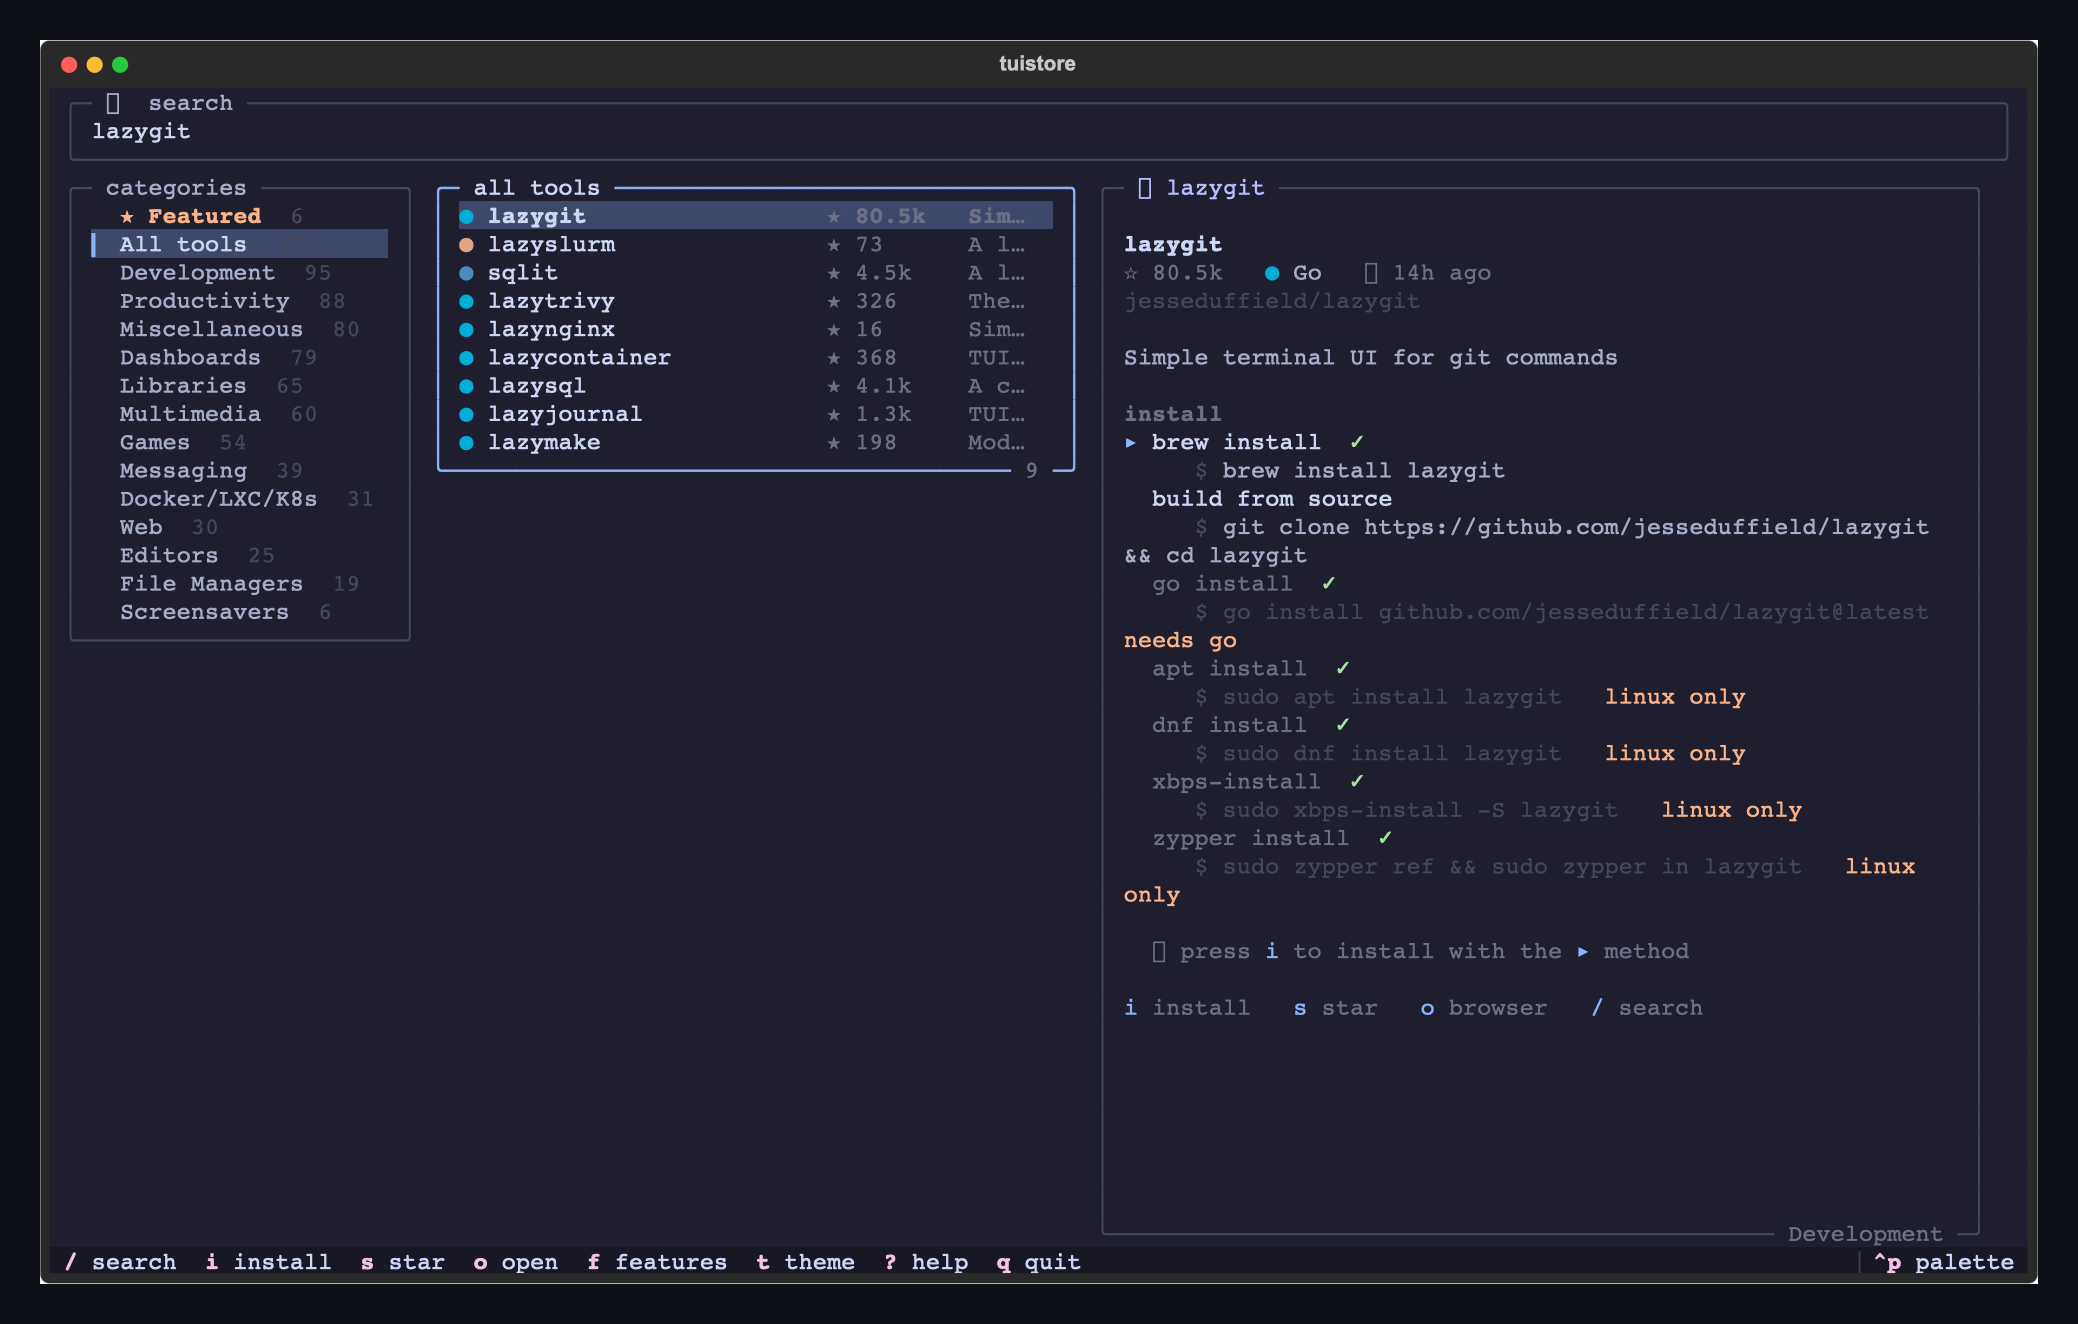
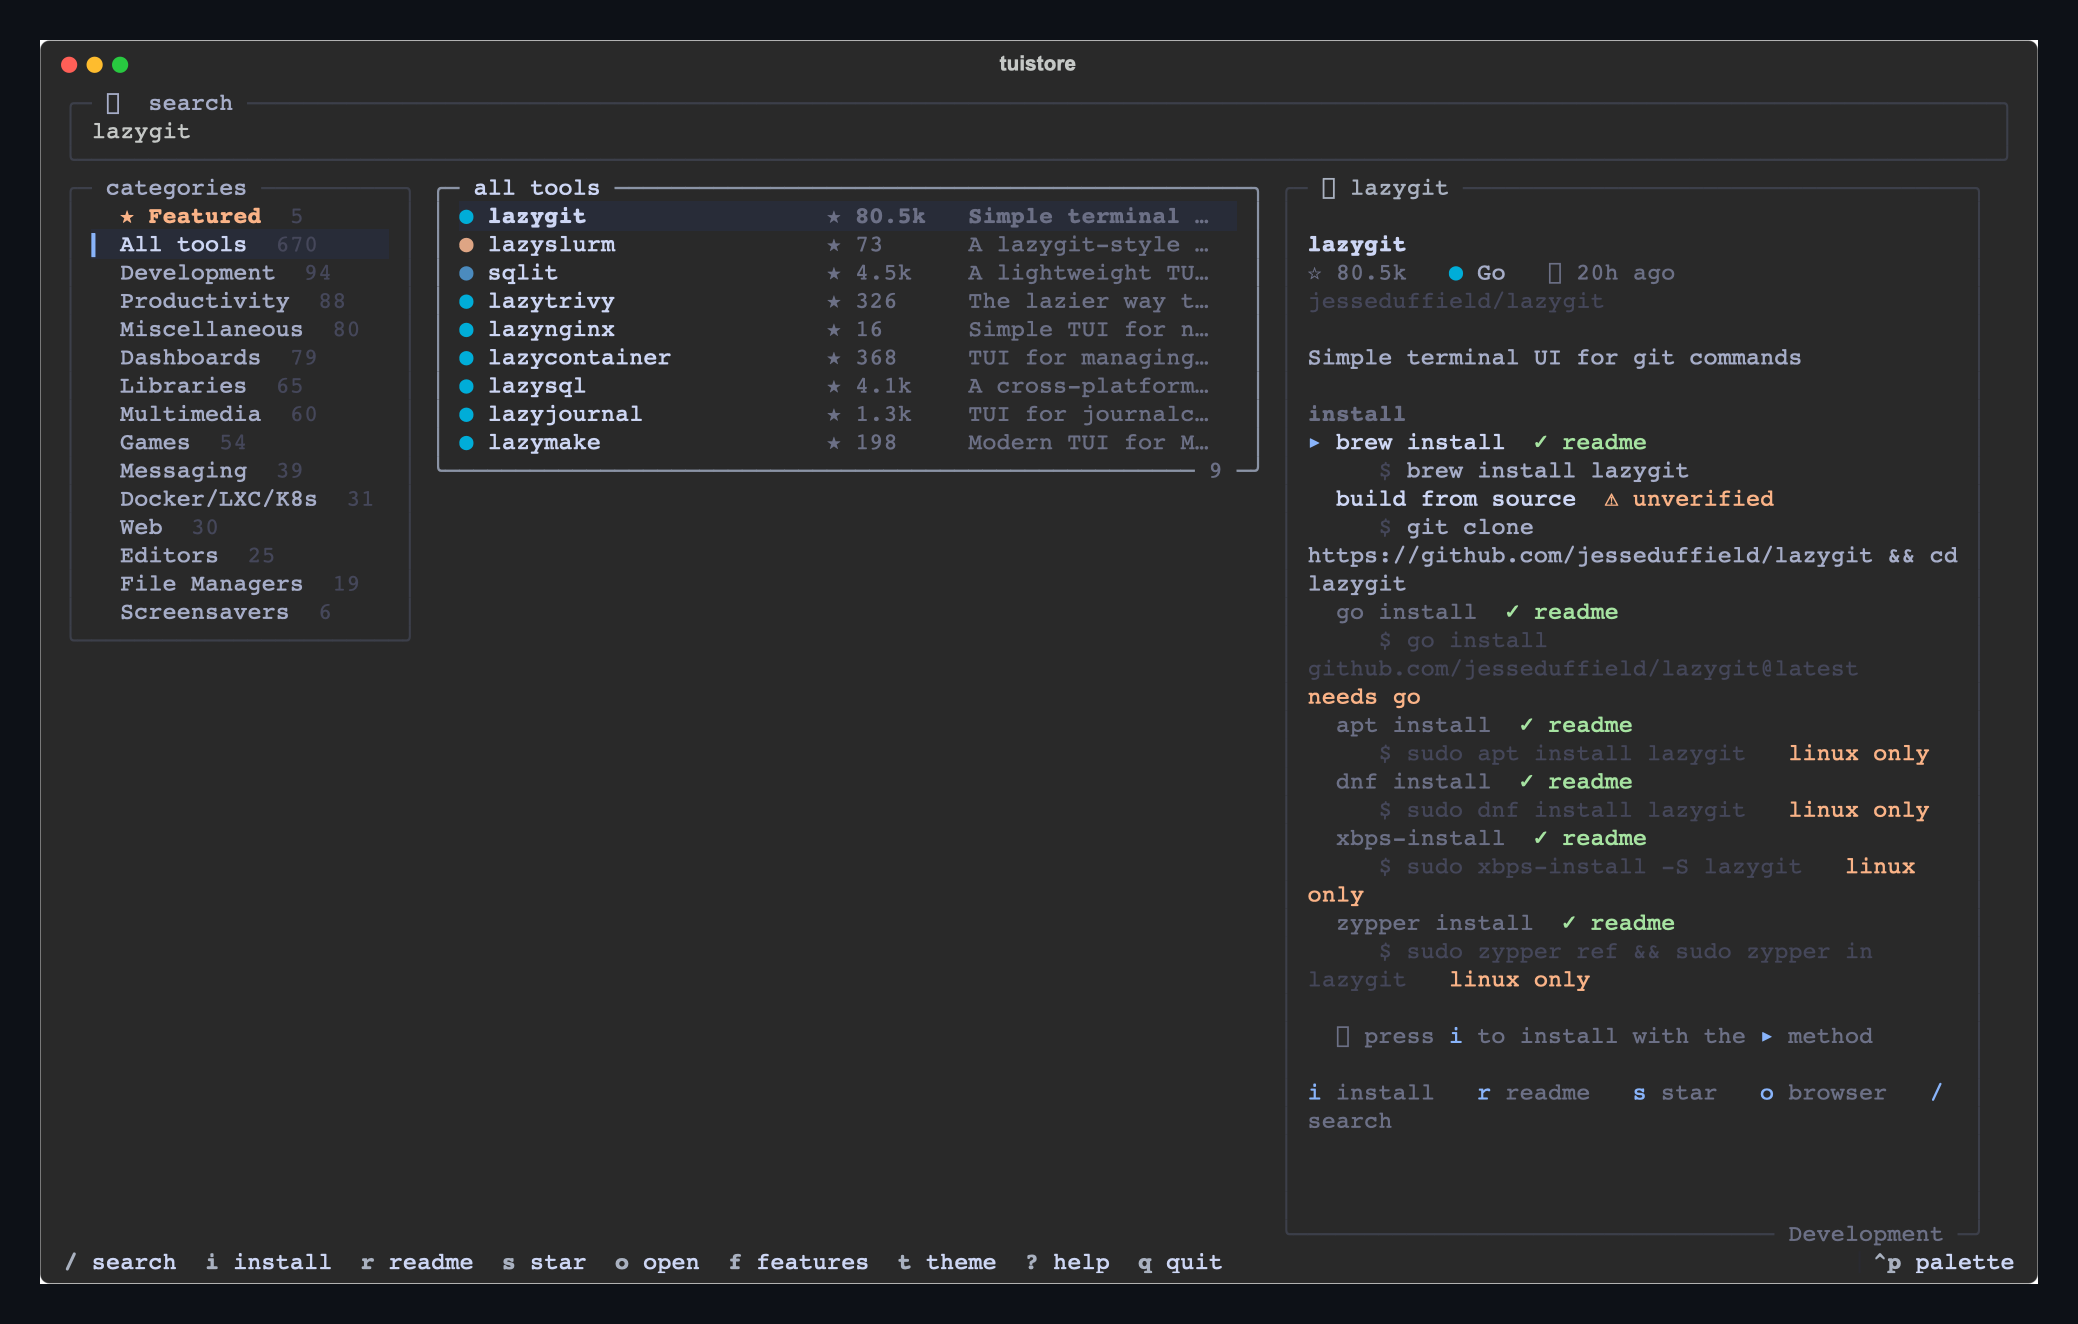
Add verified/unverified install trust tiers + in-app README reader
- installer: Method.trust (verified/community/unverified) + is_script
- install modal: prominent trust banner — ✓ verified / ✓ from README /
  ⚠ unverified, plus a loud warning on remote curl|sh scripts; you always
  confirm the exact command before it runs
- new ReadmeModal: press r on any tool (or inside the install modal) to read
  its README in-app and inspect it before installing; cached per repo
- detail pane labels each method's trust; footer/help/features updated
- README: document the trust tiers + reader, refresh screenshots, drop opentab

diff --git a/tuistore/app.py b/tuistore/app.py
@@ -17,7 +17,7 @@ from textual.app import ComposeResult
 from textual.binding import Binding
 from textual.containers import Horizontal, Vertical
 from textual.screen import ModalScreen
-from textual.widgets import Footer, Input, Static
+from textual.widgets import Footer, Input, Markdown, Static
 from textual.widgets.option_list import Option
 
 from ricekit import KitApp, icons, palette
@@ -87,6 +87,7 @@ class InstallModal(ModalScreen):
         Binding("escape", "close", show=False),
         Binding("enter", "run", show=False),
         Binding("a", "alternatives", show=False),
+        Binding("r", "readme", show=False),
         Binding("q", "close", show=False),
     ]
 
@@ -101,6 +102,8 @@ class InstallModal(ModalScreen):
         height: auto; padding: 1 2; margin: 0 0 1 0;
         border: round $kit-border; background: $kit-cursor;
     }
+    InstallModal #trust { height: auto; padding: 0 1; margin: 0 0 1 0; }
+    InstallModal #trust.warn { border-left: thick $kit-border-alt; }
     InstallModal #meta { padding: 0 0 1 0; }
     InstallModal #log { height: auto; max-height: 22; display: none; margin: 1 0 0 0; }
     InstallModal #log.on { display: block; }
@@ -119,6 +122,7 @@ class InstallModal(ModalScreen):
         with Vertical(id="box"):
             yield Static(id="title")
             yield Static(id="cmd")
+            yield Static(id="trust")
             yield Static(id="meta")
             with KitScroll(id="log"):
                 yield Static(id="logtext")
@@ -140,17 +144,40 @@ class InstallModal(ModalScreen):
         cmd.append(m.command, style=palette.text)
         self.query_one("#cmd", Static).update(cmd)
 
-        env = self.app.env
+        env, p = self.app.env, palette
+        # trust banner — the security gate: verified vs from-README vs guessed
+        trust_w = self.query_one("#trust", Static)
+        tb = Text()
+        warn = False
+        if m.is_script:
+            warn = True
+            tb.append("⚠  ", style=f"bold {p.peach}")
+            tb.append("this runs a remote install script — ", style=p.peach)
+            tb.append("read it before you run it", style=f"bold {p.peach}")
+        elif m.trust == "unverified":
+            warn = True
+            tb.append("⚠  ", style=f"bold {p.peach}")
+            tb.append("unverified — guessed from the repo; ", style=p.peach)
+            tb.append("confirm it's the right package", style=f"bold {p.peach}")
+        elif m.trust == "community":
+            tb.append(f"{icons.CHECK_CIRCLE}  ", style=p.green)
+            tb.append("from the project's own README", style=p.green)
+        else:  # verified
+            tb.append(f"{icons.CHECK_CIRCLE}  ", style=p.green)
+            tb.append("verified — maintainer-checked", style=p.green)
+        trust_w.update(tb)
+        trust_w.set_class(warn, "warn")
+
         meta = Text()
-        meta.append(f"via {m.label}", style=palette.sub)
-        if m.source == "readme":
-            meta.append("   from README", style=palette.green)
-        elif m.source == "official":
-            meta.append("   official", style=palette.green)
-        else:
-            meta.append(f"   {m.note or 'inferred'}", style=palette.dim)
+        meta.append(f"via {m.label}", style=p.sub)
+        if m.note and m.trust != "verified":
+            meta.append(f"   {m.note}", style=p.dim)
         if not m.available(env):
-            meta.append(f"   ⚠ {m.why_unavailable(env)}", style=palette.peach)
+            meta.append(f"   ⚠ {m.why_unavailable(env)}", style=p.peach)
+        if self.entry.is_github:
+            meta.append("      ")
+            meta.append("r", style=p.blue)
+            meta.append(" read the README first", style=p.dim)
         self.query_one("#meta", Static).update(meta)
         self._hint()
 
@@ -170,9 +197,17 @@ class InstallModal(ModalScreen):
             if alts:
                 h.append("a", style=palette.blue)
                 h.append(f" method ({alts})   ", style=palette.dim)
+            h.append("r", style=palette.blue)
+            h.append(" readme   ", style=palette.dim)
             h.append("esc", style=palette.blue)
             h.append(" cancel", style=palette.dim)
         self.query_one("#hint", Static).update(h)
+
+    def action_readme(self) -> None:
+        if self.entry.is_github:
+            self.app.push_screen(ReadmeModal(self.entry))
+        else:
+            self.app.notify("no GitHub README for this tool", severity="warning")
 
     def action_alternatives(self) -> None:
         if self.running or self.done or not self.alternatives:
@@ -311,12 +346,16 @@ class FeaturesModal(ModalScreen):
              "found something great? press s to star it on GitHub (via your gh login).")
         feat(icons.PAINTBRUSH, "five ricekit themes",
              "mocha · void · onyx · clear · system — press t to cycle, ctrl+p to preview any.")
-        feat(icons.REFRESH, "installs scraped from READMEs",
-             "verified commands come straight from each project's README, cached as you browse.")
+        feat(icons.CHECK_CIRCLE, "verified vs unverified installs",
+             "official + README-sourced commands are marked ✓; guessed ones are flagged ⚠, and")
+        t.append("      remote install scripts get a clear warning — you always confirm before it runs.\n\n",
+                 style=p.dim)
+        feat(icons.LIST, "read the README in-app",
+             "press r on any tool to read its README right here and inspect it before installing.")
 
         t.append("  keys\n", style=f"bold {p.dim}")
         for k, d in (("/", "search"), ("enter", "open detail"), ("i", "install"),
-                     ("s", "star / unstar"), ("o", "open in browser"),
+                     ("r", "read README"), ("s", "star / unstar"), ("o", "open in browser"),
                      ("t", "theme"), ("?", "all keys"), ("q", "quit")):
             t.append(f"    {k.ljust(7)}", style=p.blue)
             t.append(f"{d}\n", style=p.sub)
@@ -331,6 +370,85 @@ class FeaturesModal(ModalScreen):
         self.dismiss(None)
 
 
+# ── readme reader ────────────────────────────────────────────────────────────
+class ReadmeModal(ModalScreen):
+    """Read a tool's README right in the store — inspect it before installing."""
+
+    BINDINGS = [
+        Binding("escape", "close", show=False),
+        Binding("q", "close", show=False),
+        Binding("r", "close", show=False),
+        Binding("o", "browser", show=False),
+    ]
+
+    DEFAULT_CSS = """
+    ReadmeModal { align: center middle; background: $kit-overlay; }
+    ReadmeModal #rbox {
+        width: 92; max-width: 94%; height: 90%;
+        background: $kit-modal-bg; border: round $kit-border-focus; padding: 1 2;
+    }
+    ReadmeModal #rtitle { height: auto; padding: 0 0 1 0; }
+    ReadmeModal #rscroll { height: 1fr; scrollbar-size-vertical: 1; }
+    ReadmeModal #rmd, ReadmeModal Markdown { background: transparent; }
+    ReadmeModal #rhint { height: auto; padding: 1 0 0 0; }
+    """
+
+    def __init__(self, entry: Entry) -> None:
+        super().__init__()
+        self.entry = entry
+
+    def compose(self) -> ComposeResult:
+        with Vertical(id="rbox"):
+            yield Static(id="rtitle")
+            with KitScroll(id="rscroll"):
+                yield Markdown("", id="rmd")
+            yield Static(id="rhint")
+
+    def on_mount(self) -> None:
+        p = palette
+        pop_in(self.query_one("#rbox"))
+        title = Text()
+        title.append(f"{icons.LIST}  ", style=p.blue)
+        title.append(self.entry.name, style=f"bold {p.text}")
+        title.append(f"   {self.entry.slug}", style=p.faint)
+        self.query_one("#rtitle", Static).update(title)
+        self.query_one("#rhint", Static).update(
+            Text("loading README…", style=p.dim))
+        self.query_one("#rscroll").focus()
+        self._load()
+
+    @work(exclusive=True, group="readme")
+    async def _load(self) -> None:
+        p = palette
+        e = self.entry
+        owner, repo = e.repo
+        cached = DIRS.read_cache(f"readme_{owner}_{repo}")
+        text = cached.get("text") if cached else None
+        if text is None:
+            from .scrape import fetch_readme
+            text = await fetch_readme(owner, repo)
+            if text:
+                DIRS.write_cache(f"readme_{owner}_{repo}", {"text": text})
+        md = self.query_one("#rmd", Markdown)
+        if not text:
+            await md.update(
+                f"# {e.name}\n\n_Couldn't load a README for this tool._\n\n"
+                "Press **o** to open it in your browser.")
+        else:
+            if len(text) > 60000:  # keep Markdown parsing snappy on huge docs
+                text = text[:60000] + "\n\n---\n_… truncated — press **o** to read the rest on GitHub._"
+            await md.update(text)
+        self.query_one("#rhint", Static).update(
+            Text("j/k scroll · o open in browser · esc close", style=p.dim))
+
+    def action_browser(self) -> None:
+        webbrowser.open(self.entry.homepage or self.entry.url)
+        self.app.notify(f"opened {self.entry.url}")
+
+    def action_close(self) -> None:
+        self.dismiss(None)
+
+
 # ── the app ──────────────────────────────────────────────────────────────────
 class StoreApp(KitApp):
     TITLE = "tuistore"
@@ -338,6 +456,7 @@ class StoreApp(KitApp):
     BINDINGS = [
         Binding("slash", "focus_search", "search"),
         Binding("i", "install", "install"),
+        Binding("r", "read_readme", "readme"),
         Binding("s", "toggle_star", "star"),
         Binding("o", "open_browser", "open"),
         Binding("f", "features", "features"),
@@ -672,7 +791,7 @@ class StoreApp(KitApp):
         chosen = best(entry.methods, self.env)
         if not methods:
             t.append("  no known method yet — ", style=p.dim)
-            t.append("press o to open the README", style=p.blue)
+            t.append("press r to read the README", style=p.blue)
             t.append("\n")
         else:
             for m in methods[:7]:
@@ -681,8 +800,12 @@ class StoreApp(KitApp):
                 bullet = "▸ " if is_best else "  "
                 t.append(bullet, style=p.blue if is_best else p.faint)
                 t.append(f"{m.label}", style=p.text if avail else p.dim)
-                if m.source in ("readme", "official"):
-                    t.append("  ✓", style=p.green)
+                if m.trust == "verified":
+                    t.append("  ✓ verified", style=p.green)
+                elif m.trust == "community":
+                    t.append("  ✓ readme", style=p.green)
+                else:
+                    t.append("  ⚠ unverified", style=p.peach)
                 t.append("\n")
                 t.append("     $ ", style=p.faint)
                 t.append(m.command, style=p.sub if avail else p.faint)
@@ -699,7 +822,8 @@ class StoreApp(KitApp):
         t.append("\n")
         # hint bar
         hint = Text()
-        for key, lbl in (("i", "install"), ("s", "star"), ("o", "browser"), ("/", "search")):
+        for key, lbl in (("i", "install"), ("r", "readme"), ("s", "star"),
+                         ("o", "browser"), ("/", "search")):
             hint.append(f"{key} ", style=p.blue)
             hint.append(f"{lbl}   ", style=p.dim)
         t.append_text(hint)
@@ -768,12 +892,21 @@ class StoreApp(KitApp):
         entry = self.current
         methods = self._methods_for(entry)
         if not methods:
-            self.notify("no known install method — opening README", severity="warning")
-            self.action_open_browser()
+            self.notify("no known install method — opening the README", severity="warning")
+            self.action_read_readme()
             return
         chosen = best(entry.methods, self.env)
         alternatives = [m for m in methods if m is not chosen]
         self.push_screen(InstallModal(entry, chosen, alternatives))
+
+    def action_read_readme(self) -> None:
+        if not self.current:
+            return
+        if not self.current.is_github:
+            self.notify("no GitHub README — opening in browser", severity="warning")
+            self.action_open_browser()
+            return
+        self.push_screen(ReadmeModal(self.current))
 
     @work(group="star")
     async def action_toggle_star(self) -> None:
@@ -832,7 +965,8 @@ HELP_SECTIONS = [
         ("esc", "step back a pane · clear search"),
     ]),
     ("a tool", [
-        ("i", "install (choose method with a)"),
+        ("i", "install (verified vs unverified; pick method with a)"),
+        ("r", "read the README in-app (inspect before installing)"),
         ("s", "star / unstar on GitHub"),
         ("o", "open repo / homepage in browser"),
     ]),

diff --git a/tuistore/installer.py b/tuistore/installer.py
@@ -75,6 +75,24 @@ class Method:
     def label(self) -> str:
         return KINDS.get(self.kind, {}).get("label", self.kind)
 
+    @property
+    def trust(self) -> str:
+        """How much to trust this command:
+        - "verified"   maintainer-curated (featured tools)
+        - "community"  taken verbatim from the project's own README
+        - "unverified" guessed from the repo (name may be wrong / squattable)
+        """
+        if self.source == "official":
+            return "verified"
+        if self.source == "readme":
+            return "community"
+        return "unverified"
+
+    @property
+    def is_script(self) -> bool:
+        """A remote install script (curl|sh) — highest-risk, always warn."""
+        return self.kind == "script"
+
     def available(self, env: Env) -> bool:
         if self.os and env.os not in self.os:
             return False

diff --git a/README.md b/README.md
@@ -64,6 +64,7 @@ Dead simple: **type to search, arrow to browse, `i` to install.**
  ↑ ↓ · j k    move through the list        g / G   jump to top / bottom
  enter        open / focus a tool
  i            install  (press a to pick a different method)
+ r            read the README in-app (inspect before you install)
  s            star / unstar on GitHub
  o            open the repo in your browser
  f            features / about            t       cycle theme
@@ -86,29 +87,33 @@ This is the hard part, and it's the point of tuistore.
 2. **Every tool carries platform-gated install methods.** A method knows what
    binaries it needs and where it's allowed to run, so `pacman -S` only appears
    on Arch, `brew` only where brew exists, `cargo` only where cargo is.
-3. **Methods come from three places, most-trusted first:**
-   - **official** — commands the project itself documents (hand-verified for the
-     featured suite),
-   - **from README** — scraped straight out of each repo's README (kept only
+3. **Methods come from three places, and the UI labels which is which:**
+   - ✓ **official** — commands the project itself documents (hand-verified for
+     the featured suite),
+   - ✓ **from README** — scraped straight out of each repo's README (kept only
      when the command actually names the tool, so dependency lines don't leak),
-   - **inferred** — a best-guess from the repo's primary language, always
-     labelled as a guess.
+   - ⚠ **unverified** — a best-guess from the repo's language, flagged so you
+     know to check it.
 4. **It ranks what's runnable** and offers the winner as the default — a clean
    managed install (brew / cargo / uv) before a `curl | sh`, verified before
    guessed — with every alternative one keypress (`a`) away.
-5. **It runs it in your login shell** and streams the output live, so it behaves
-   exactly like your normal terminal.
+5. **Before you commit, you can look.** The install screen shows the exact
+   command with a clear **✓ verified / ⚠ unverified** badge (and a loud warning
+   on remote `curl | sh` scripts), and **`r` opens the project's README right in
+   the store** so you can inspect a tool before you install it.
+6. **It runs in your login shell** and streams the output live — nothing is ever
+   run silently; you always see the exact command and confirm it.
 
-If nothing is known yet, tuistore scrapes the README the moment you open the
-tool (and caches it), or points you to the docs. Nothing is ever silently run —
-you always see the exact command and confirm it.
+<div align="center">
+<img src="assets/readme.png" alt="reading a tool's README in-app before installing" width="90%">
+</div>
 
 ## the catalog
 
 - **★ Featured — the suite.** [ltui](https://github.com/runpantheon/ltui),
   [jtui](https://github.com/Gheat1/jtui), [sctui](https://github.com/Gheat1/sctui),
-  [NaviTui](https://github.com/Gheat1/NaviTui), [opentab](https://github.com/Gheat1/opentab),
-  and [ricekit](https://github.com/Gheat1/ricekit) — pinned to the top.
+  [NaviTui](https://github.com/Gheat1/NaviTui), and
+  [ricekit](https://github.com/Gheat1/ricekit) — pinned to the top.
 - **670+ tools** from [rothgar/awesome-tuis](https://github.com/rothgar/awesome-tuis),
   grouped into 13 browsable categories, each enriched with live GitHub stars,
   language, and freshness.
@@ -139,7 +144,6 @@ If you like tuistore, you'll probably like the rest of the suite:
 | [**jtui**](https://github.com/Gheat1/jtui) | the same, for Jira |
 | [**sctui**](https://github.com/Gheat1/sctui) | the same, for Shortcut |
 | [**NaviTui**](https://github.com/Gheat1/NaviTui) | an animated terminal player for Navidrome |
-| [**opentab**](https://github.com/Gheat1/opentab) | browse your AI coding spend in the terminal |
 | [**ricekit**](https://github.com/Gheat1/ricekit) | the design system all of them share |
 
 ## config & data